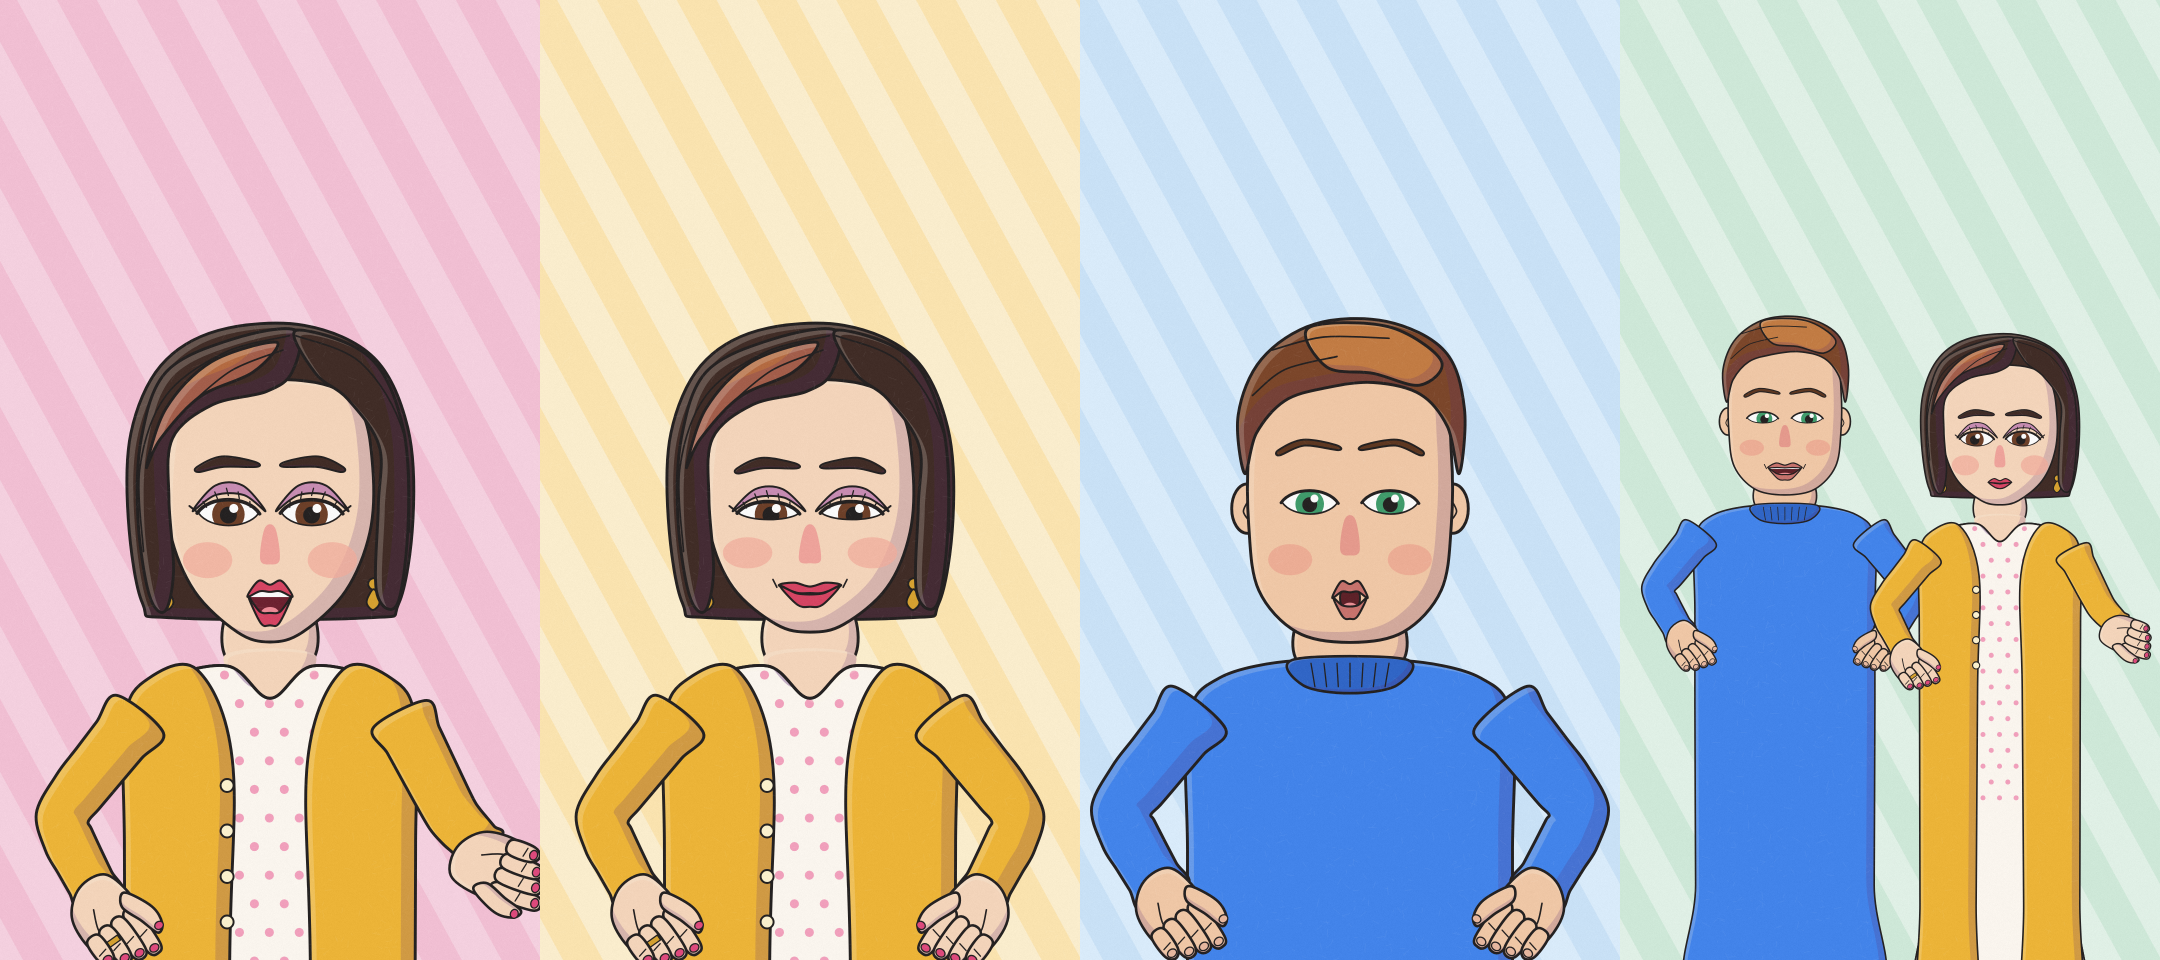
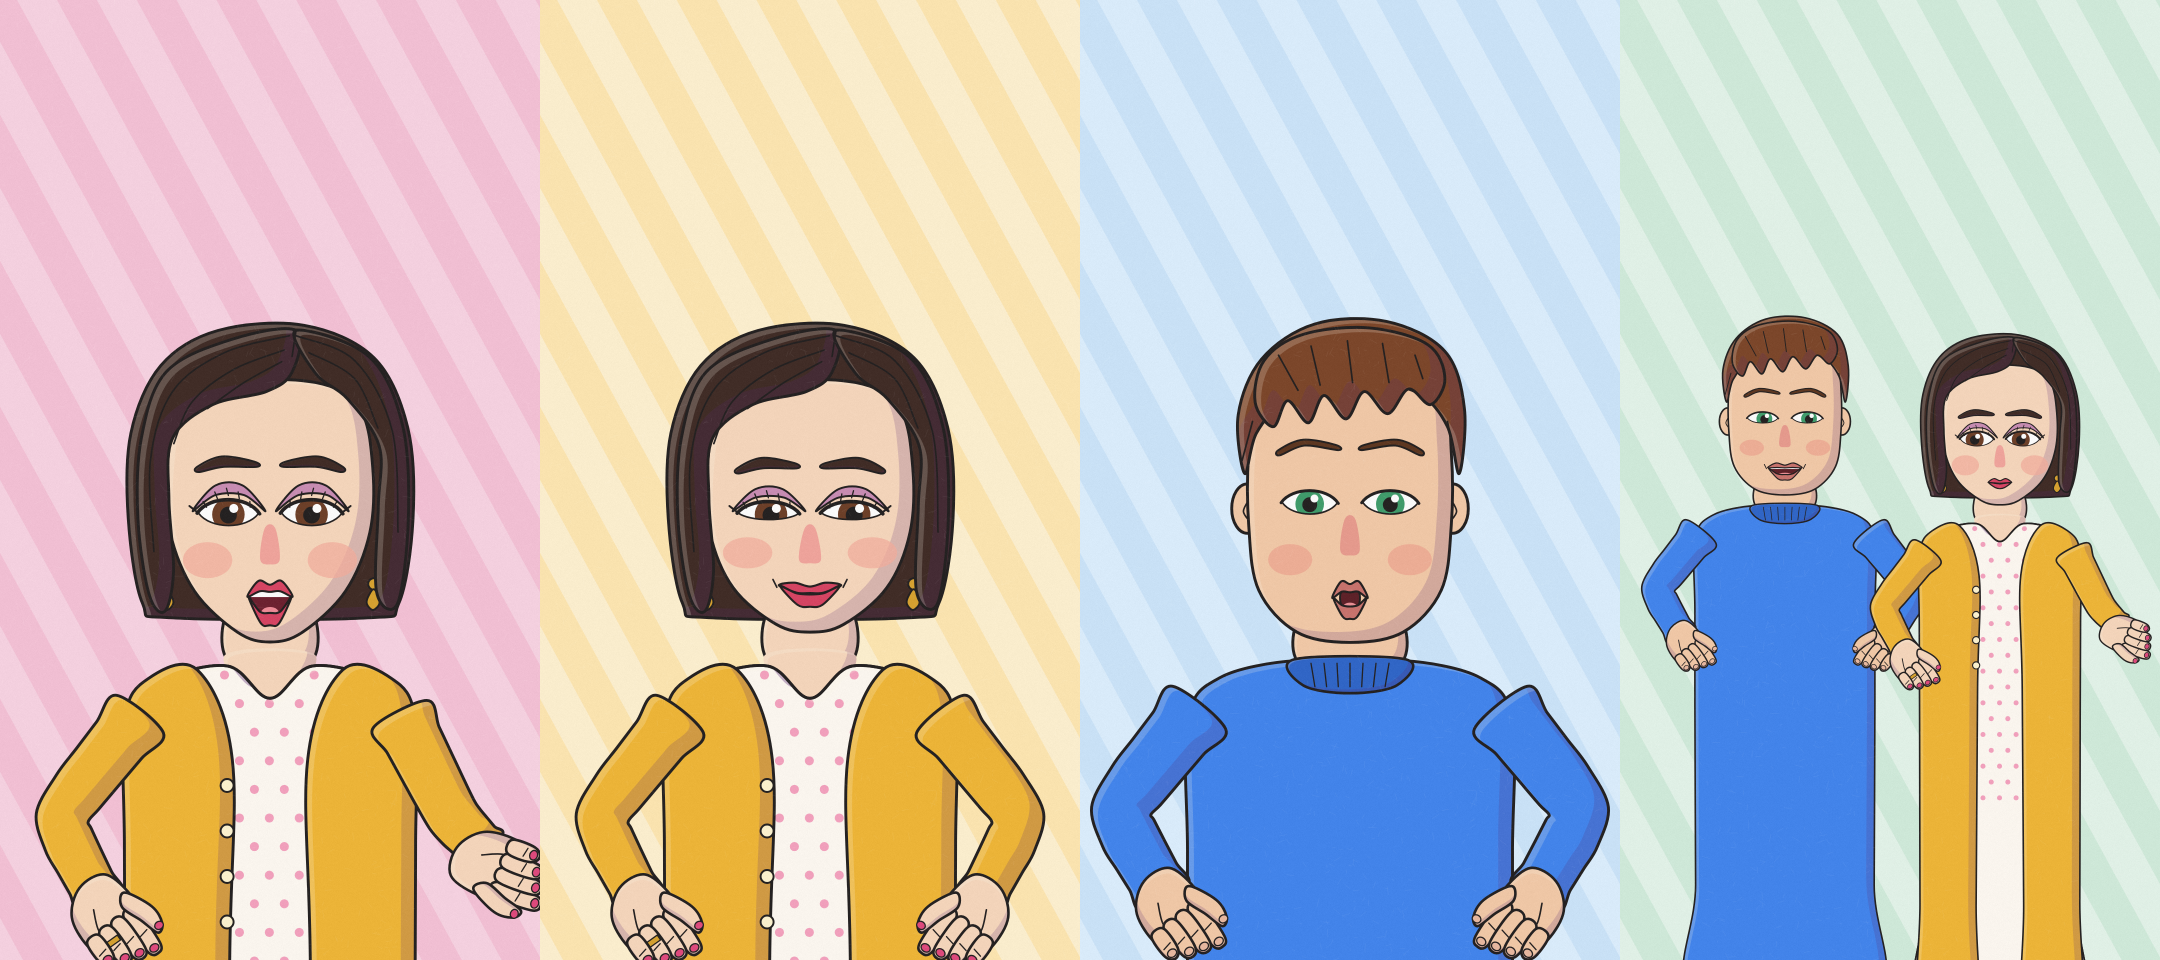
Thin-line cast: remove coloured hair locks, own one-colour hairstyles
Claude-Session: https://claude.ai/code/session_01RM84ZhQNxywyi2ve1hSSaa

diff --git a/speak_in_english/thinline_cast/tl_cast.js b/speak_in_english/thinline_cast/tl_cast.js
@@ -66,8 +66,7 @@ function heroine(st) { const x = st.x ?? 540, y = 1000 + (st.by || 0), G = g(); 
   const sway = (pts) => pts.map(([px, py]) => [px + clamp((py - (y - 60)) / 220) * 4 * Math.sin(T * 1.1 + .6), py]);
   shape(sway([[x + 40, y - 270], [x - 60, y - 256], [x - 160, y - 206], [x - 198, y - 104], [x - 204, y + 20], [x - 188, y + 136], [x - 164, y + 162], [x - 150, y + 100], [x - 156, y - 10], [x - 150, y - 104], [x - 88, y - 156], [x - 6, y - 176], [x + 34, y - 206]]), C.hairP);
   shape(sway([[x + 40, y - 270], [x + 152, y - 230], [x + 204, y - 124], [x + 212, y + 20], [x + 194, y + 150], [x + 162, y + 132], [x + 166, y + 0], [x + 168, y - 92], [x + 120, y - 164], [x + 70, y - 204]]), C.hairP);
-  shape(sway([[x + 10, y - 252], [x - 90, y - 222], [x - 160, y - 150], [x - 190, y - 60], [x - 168, y - 104], [x - 108, y - 168], [x - 26, y - 206]]), C.hairM);
-  for (const p of [[[x + 30, y - 262], [x - 70, y - 236], [x - 160, y - 170], [x - 200, y - 60], [x - 196, y + 70]], [[x + 40, y - 262], [x + 140, y - 220], [x + 206, y - 110], [x + 214, y + 40]], [[x + 20, y - 240], [x - 60, y - 208], [x - 130, y - 150]]]) line(sway(p), 2.6);
+  for (const p of [[[x + 30, y - 262], [x - 70, y - 236], [x - 150, y - 176], [x - 184, y - 70], [x - 180, y + 70]], [[x + 40, y - 262], [x + 130, y - 224], [x + 188, y - 116], [x + 196, y + 40]], [[x + 22, y - 240], [x - 56, y - 210], [x - 120, y - 160], [x - 148, y - 96]], [[x + 18, y - 222], [x - 40, y - 190], [x - 96, y - 150]], [[x + 60, y - 236], [x + 130, y - 196], [x + 166, y - 120]], [[x + 40, y - 270], [x + 34, y - 230]]]) line(sway(p), 2.6);
 }
 // ---------------- Tom: short brown hair with a lighter swoop, blue jumper ----------------
 const TOM_F = [[-156, -70, 0], [-142, -160, 0], [-72, -206, 0], [72, -206, 0], [142, -160, 0], [156, -70, 0], [156, 40, .05], [142, 136, .35], [84, 196, .8], [0, 210, 1], [-84, 196, .8], [-142, 136, .35], [-156, 40, .05]];
@@ -80,7 +79,7 @@ function tom(st) { const x = st.x ?? 540, y = 990 + (st.by || 0), G = g(); setPa
   for (const s of [-1, 1]) { oval(x + s * 158, y + 14, 24, 38, C.skin); line([[x + s * 154, y - 2], [x + s * 164, y + 18], [x + s * 154, y + 34]], 2.5); }
   face(x, y, { F: TOM_F, cx: 92, cy: 92, ck: [34, 24], ex: 62, ey: 4, ew: 42, eh: 22, ir: 22, lid: 4.5, lashes: false, browT: 11, ny: 30, my: 140, mw: 38, lt: 9, lb: 18 }, st);
   shape([[x - 162, y - 40], [x - 172, y - 130], [x - 136, y - 216], [x - 54, y - 270], [x + 56, y - 274], [x + 146, y - 228], [x + 176, y - 140], [x + 168, y - 40], [x + 150, y - 112], [x + 108, y - 162], [x + 36, y - 180], [x - 36, y - 172], [x - 100, y - 152], [x - 144, y - 102]], C.hairP);
-  shape([[x - 64, y - 264], [x + 58, y - 266], [x + 140, y - 214], [x + 108, y - 176], [x + 36, y - 194], [x - 36, y - 204]], C.hairM);
-  for (const p of [[[x - 120, y - 230], [x - 40, y - 250], [x + 60, y - 248]], [[x - 150, y - 160], [x - 100, y - 200], [x - 20, y - 220]]]) line(p, 2.6);
+  shape([[x - 146, y - 150], [x - 118, y - 112], [x - 96, y - 152], [x - 64, y - 118], [x - 40, y - 160], [x - 6, y - 124], [x + 22, y - 166], [x + 58, y - 132], [x + 90, y - 170], [x + 124, y - 146], [x + 146, y - 186], [x + 120, y - 238], [x + 30, y - 264], [x - 72, y - 254], [x - 132, y - 214]], C.hairP);
+  for (const p of [[[x - 110, y - 222], [x - 80, y - 168]], [[x - 60, y - 236], [x - 46, y - 176]], [[x - 4, y - 244], [x + 4, y - 180]], [[x + 50, y - 240], [x + 60, y - 180]], [[x + 100, y - 222], [x + 112, y - 186]], [[x - 150, y - 120], [x - 166, y - 60]], [[x + 150, y - 120], [x + 162, y - 60]]]) line(p, 2.6);
 }
 module.exports = { heroine, tom, VIS, PAL };

diff --git a/speak_in_english/thinline_cast/README.md b/speak_in_english/thinline_cast/README.md
@@ -1,5 +1,5 @@
 # Наши герои в стиле «тонкая линия»
 - `tl_kit.js` — помощники стиля из `speak/mums/render.js` (ветка claude/eloquent-brahmagupta-nf3pp4): контур, светотень, кисти с пальцами, позы рук.
-- `tl_cast.js` — героиня (тёмное каре с карамельной прядью, жёлтый кардиган, блузка в горошек, серьги, розовый лак) и Том (каштановые волосы с рыжеватой прядью, зелёные глаза, синий свитер). Лицо как у Ирины: тяжёлое веко, нос-пятно, губы бантиком, рот по звукам (`VIS`: A, O, U, E, I, M, F), моргание, улыбка с прищуром, брови.
+- `tl_cast.js` — героиня (тёмное каре с пробором набок, однотонное, жёлтый кардиган, блузка в горошек, серьги, розовый лак) и Том (короткая каштановая стрижка с чёлкой из прядей, зелёные глаза, синий свитер). Лицо как у Ирины: тяжёлое веко, нос-пятно, губы бантиком, рот по звукам (`VIS`: A, O, U, E, I, M, F), моргание, улыбка с прищуром, брови.
 - `tl_sheet.js` — лист персонажей: `node tl_sheet.js out.png`.
 Запуск: положить папку как `speak/ourcast_tl/` в checkout той ветки, `npm install` в корне.
